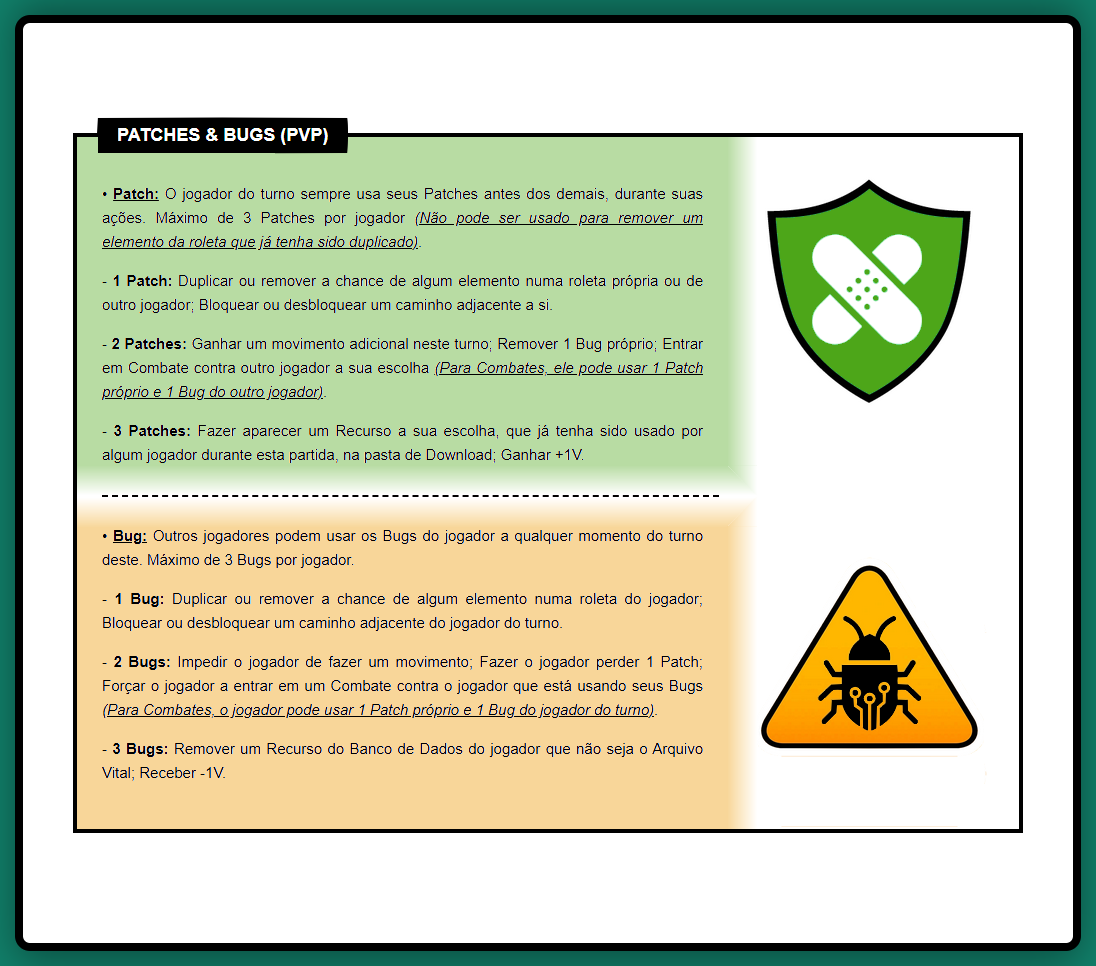
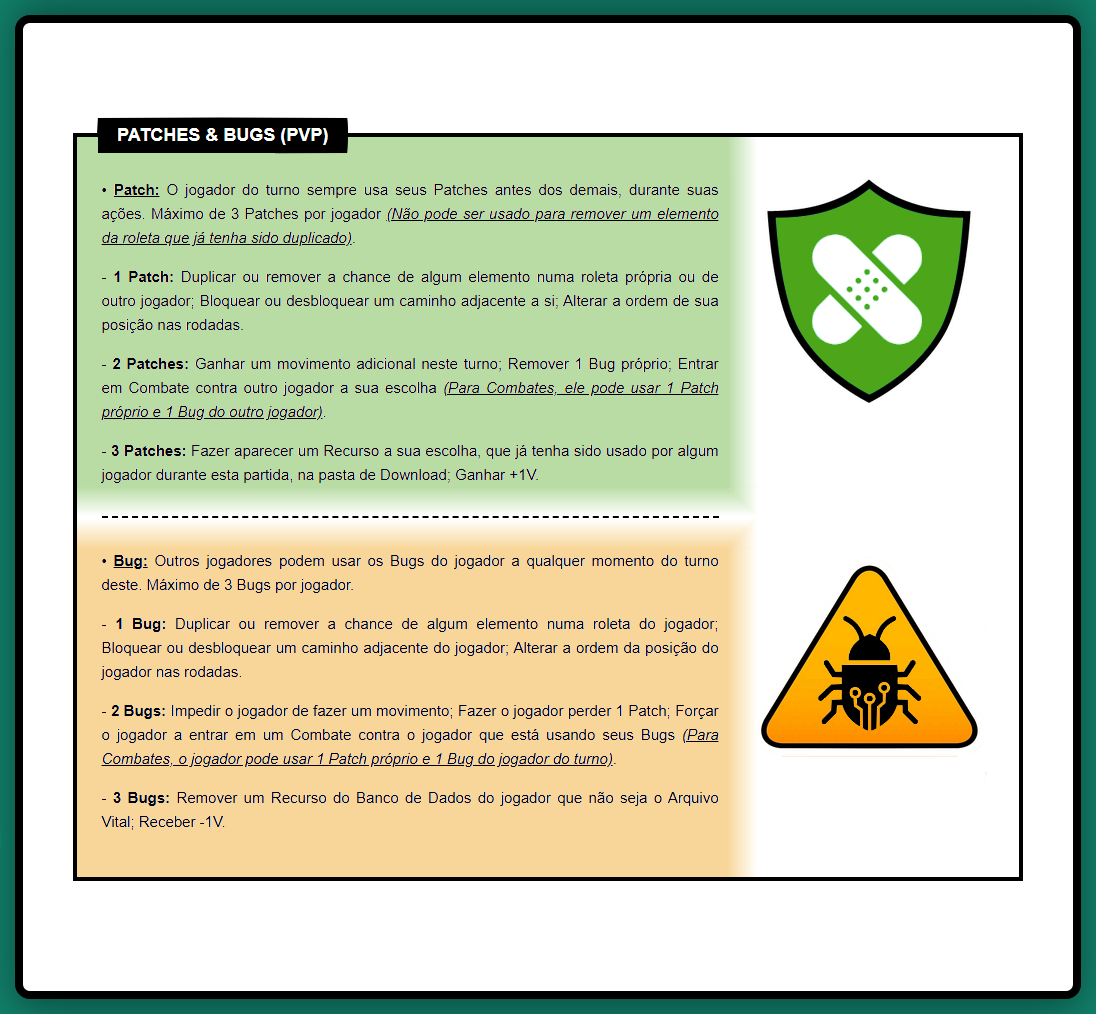
Add files via upload

Changed region(s): [[0.062, 0.0932, 0.9307, 0.8696], [0.6825, 0.559, 0.8996, 0.7764]]

diff --git a/Regras - Datamining.html b/Regras - Datamining.html
@@ -237,7 +237,7 @@
 				<div class="regra-com-imagem">
                     <div class="texto-regra">
 						<p>• <b>Patch:</b> O jogador do turno sempre usa seus Patches antes dos demais, durante suas ações. Máximo de 3 Patches por jogador <i><u>(Não pode ser usado para remover um elemento da roleta que já tenha sido duplicado)</u></i>.</p>
-							<p>- <strong>1 Patch:</strong> Duplicar ou remover a chance de algum elemento numa roleta própria ou de outro jogador; Bloquear ou desbloquear um caminho adjacente a si.</p>
+							<p>- <strong>1 Patch:</strong> Duplicar ou remover a chance de algum elemento numa roleta própria ou de outro jogador; Bloquear ou desbloquear um caminho adjacente a si; Alterar a ordem de sua posição nas rodadas.</p>
 							<p>- <strong>2 Patches:</strong> Ganhar um movimento adicional neste turno; Remover 1 Bug próprio; Entrar em Combate contra outro jogador a sua escolha <i><u>(Para Combates, ele pode usar 1 Patch próprio e 1 Bug do outro jogador)</u></i>.</p>
 							<p>- <strong>3 Patches:</strong> Fazer aparecer um Recurso a sua escolha, que já tenha sido usado por algum jogador durante esta partida, na pasta de Download; Ganhar +1V.</p>
                     </div>
@@ -247,7 +247,7 @@
 				<div class="regra-com-imagem">
                     <div class="texto-regra">
 						<p>• <b>Bug:</b> Outros jogadores podem usar os Bugs do jogador a qualquer momento do turno deste. Máximo de 3 Bugs por jogador.</p>
-							<p>- <strong>1 Bug:</strong> Duplicar ou remover a chance de algum elemento numa roleta do jogador; Bloquear ou desbloquear um caminho adjacente do jogador do turno.</p>
+							<p>- <strong>1 Bug:</strong> Duplicar ou remover a chance de algum elemento numa roleta do jogador; Bloquear ou desbloquear um caminho adjacente do jogador; Alterar a ordem da posição do jogador nas rodadas.</p>
 							<p>- <strong>2 Bugs:</strong> Impedir o jogador de fazer um movimento; Fazer o jogador perder 1 Patch; Forçar o jogador a entrar em um Combate contra o jogador que está usando seus Bugs <i><u>(Para Combates, o jogador pode usar 1 Patch próprio e 1 Bug do jogador do turno)</u></i>.</p>
 							<p>- <strong>3 Bugs:</strong> Remover um Recurso do Banco de Dados do jogador que não seja o Arquivo Vital; Receber -1V.</p>
                     </div>
